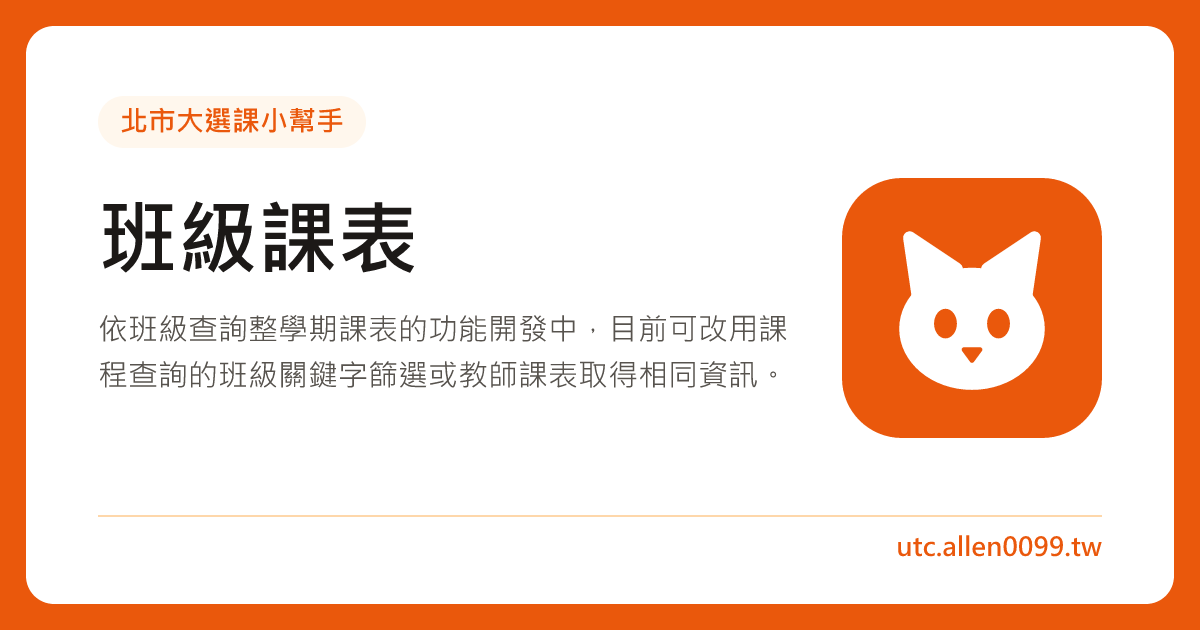
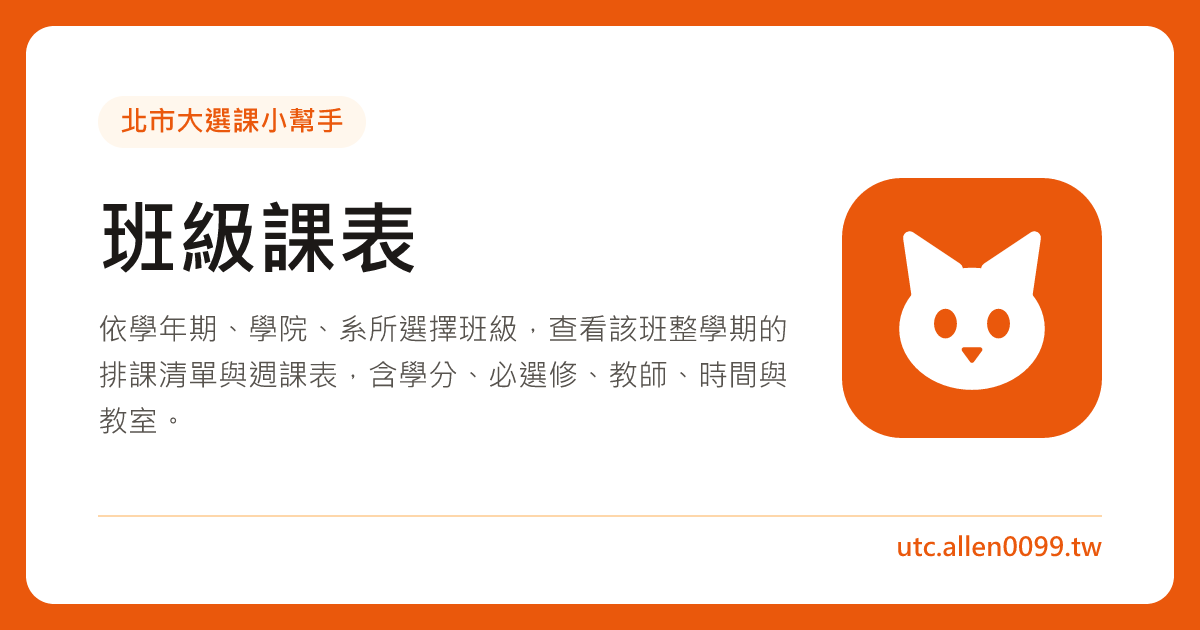
feat: remove wip badge in main page, update OG

Changed region(s): [[0.0617, 0.573, 0.6475, 0.6937], [0.0925, 0.4825, 0.6783, 0.5429]]

diff --git a/src/components/course-functions.tsx b/src/components/course-functions.tsx
@@ -1,4 +1,5 @@
 import { Card, Link } from "@heroui/react";
+import { ReactNode } from "react";
 
 import { WipBadge } from "@/components/wip-badge.tsx";
 import {
@@ -12,9 +13,17 @@ import {
 } from "@/components/svgIcon.tsx";
 import { cardTitle, sectionTitle } from "@/components/primitives.ts";
 
+interface Functions {
+  title: string;
+  href: string;
+  icon: ReactNode;
+  description: string;
+  wip?: boolean;
+}
+
 // title 用各頁的正式名稱（與 config/site.ts 的導覽標籤、頁面 h1 一致）；
 // 動作說明放在下方的 description，不要在標題再加一次「查詢」。
-const functions = [
+const functions: Array<Functions> = [
   {
     title: "校園行事曆",
     href: "/calendar",
@@ -55,8 +64,7 @@ const functions = [
     title: "班級課表",
     href: "/schedules/class",
     icon: <GraduationIcon className="text-4xl" size={48} />,
-    description: "查詢指定班級的課表（開發中）",
-    wip: true,
+    description: "查詢指定班級的課表",
   },
 ];
 
